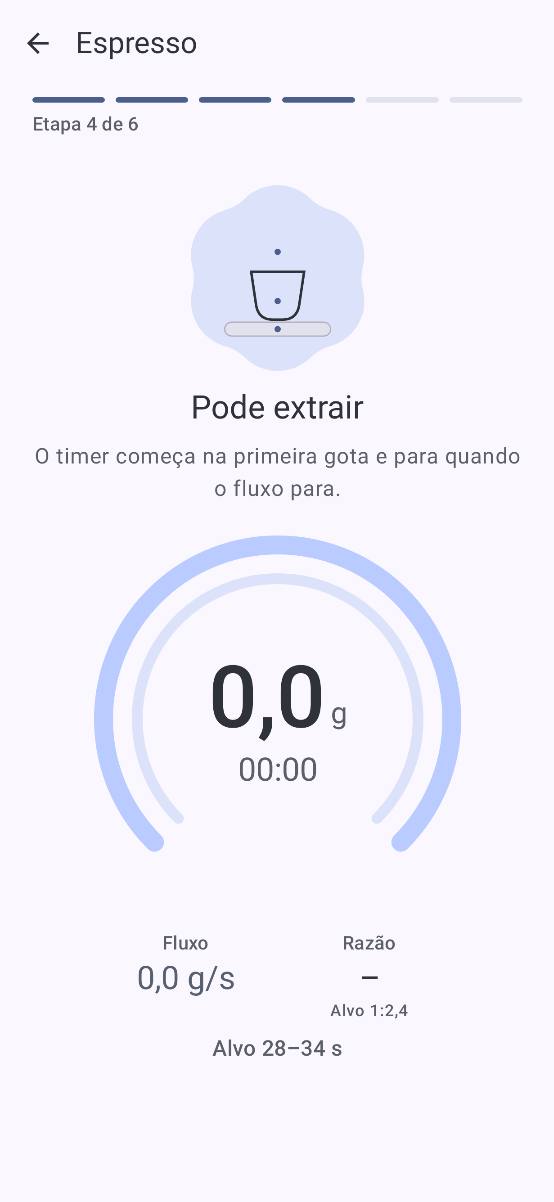
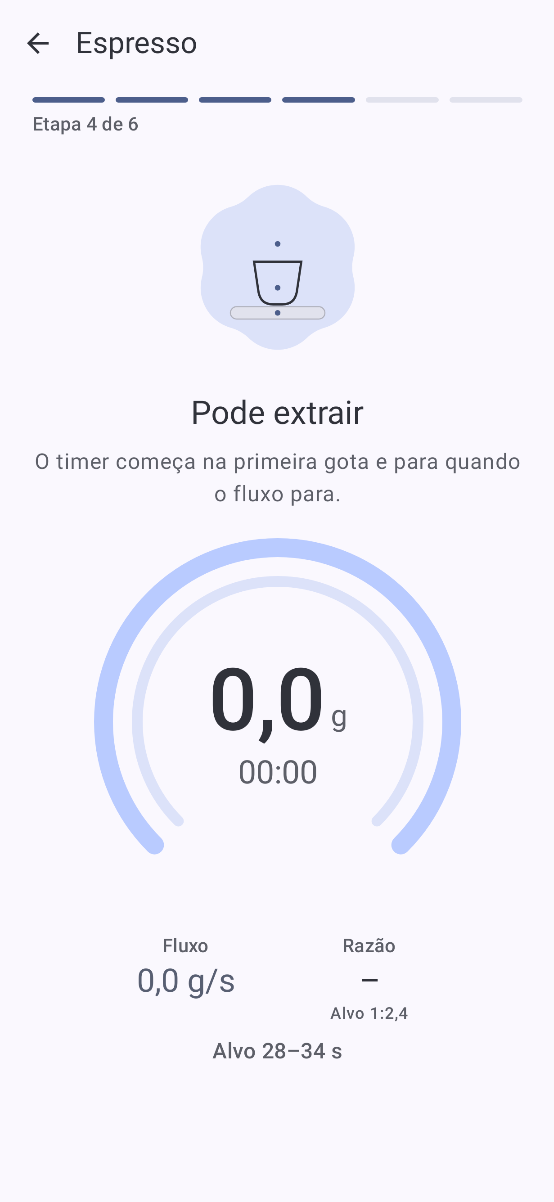
Brew stage pictures: centred on a smaller shape, with room below
The cup and scale move up to the shape's centre when nothing falls above
them, the shape is 128 dp with a 100 dp picture, and 20 dp separate it
from the stage's title.

diff --git a/app/src/main/java/io/github/mateuxlucax/caparao/ui/brew/BrewGuide.kt b/app/src/main/java/io/github/mateuxlucax/caparao/ui/brew/BrewGuide.kt
@@ -20,6 +20,7 @@ import androidx.compose.foundation.layout.Column
 import androidx.compose.foundation.layout.Row
 import androidx.compose.foundation.layout.fillMaxWidth
 import androidx.compose.foundation.layout.height
+import androidx.compose.foundation.layout.padding
 import androidx.compose.foundation.layout.size
 import androidx.compose.foundation.shape.CircleShape
 import androidx.compose.material3.MaterialTheme
@@ -38,6 +39,7 @@ import androidx.compose.ui.graphics.drawscope.DrawScope
 import androidx.compose.ui.graphics.drawscope.Stroke
 import androidx.compose.ui.graphics.drawscope.clipPath
 import androidx.compose.ui.graphics.drawscope.scale
+import androidx.compose.ui.graphics.drawscope.translate
 import androidx.compose.ui.platform.LocalContext
 import androidx.compose.ui.platform.LocalDensity
 import androidx.compose.ui.res.stringResource
@@ -112,7 +114,7 @@ fun GuideHeader(stage: GuideStage, modifier: Modifier = Modifier) {
     Column(modifier.fillMaxWidth(), horizontalAlignment = Alignment.CenterHorizontally, verticalArrangement = Arrangement.spacedBy(8.dp)) {
         // The picture sits on a shape that morphs from stage to stage: taring, cup, first drop.
         if (stage.pictured) {
-            MorphingShape(stage.ordinal, Modifier.size(144.dp)) {
+            MorphingShape(stage.ordinal, Modifier.padding(bottom = 20.dp).size(128.dp)) {
                 AnimatedContent(stage, transitionSpec = { fadeIn(tween(Motion.MEDIUM_2)) togetherWith fadeOut(tween(Motion.SHORT_4)) }, label = "picture") { StageAnimation(it) }
             }
         }
@@ -154,9 +156,11 @@ private fun StageAnimation(stage: GuideStage) {
         transition.animateFloat(0f, 1f, infiniteRepeatable(tween(LOOP_MS, easing = LinearEasing)), label = "t").value
     }
     val colors = MaterialTheme.colorScheme
-    Canvas(Modifier.size(112.dp)) {
+    Canvas(Modifier.size(100.dp)) {
         // Drawn in a 120-unit square.
-        scale(size.width / 120f, pivot = Offset.Zero) {
+        // The cup and scale sit low in the square; without the stream or drops above them, centre them on the shape.
+        val lift = if (stage == GuideStage.CUP || stage == GuideStage.TARE) 25f else 0f
+        scale(size.width / 120f, pivot = Offset.Zero) { translate(top = -lift) {
             val cupDrop = if (stage == GuideStage.CUP) (1f - (t / 0.5f).coerceIn(0f, 1f)).let { it * it } * 40f else 0f
             // The cup fills while the stream falls, then empties as the loop starts over.
             val fillTop = if (stage == GuideStage.POUR) 93f - 30f * Motion.Standard.transform(t) else 93f
@@ -181,7 +185,7 @@ private fun StageAnimation(stage: GuideStage) {
                 }
                 else -> Unit
             }
-        }
+        } }
     }
 }
 
